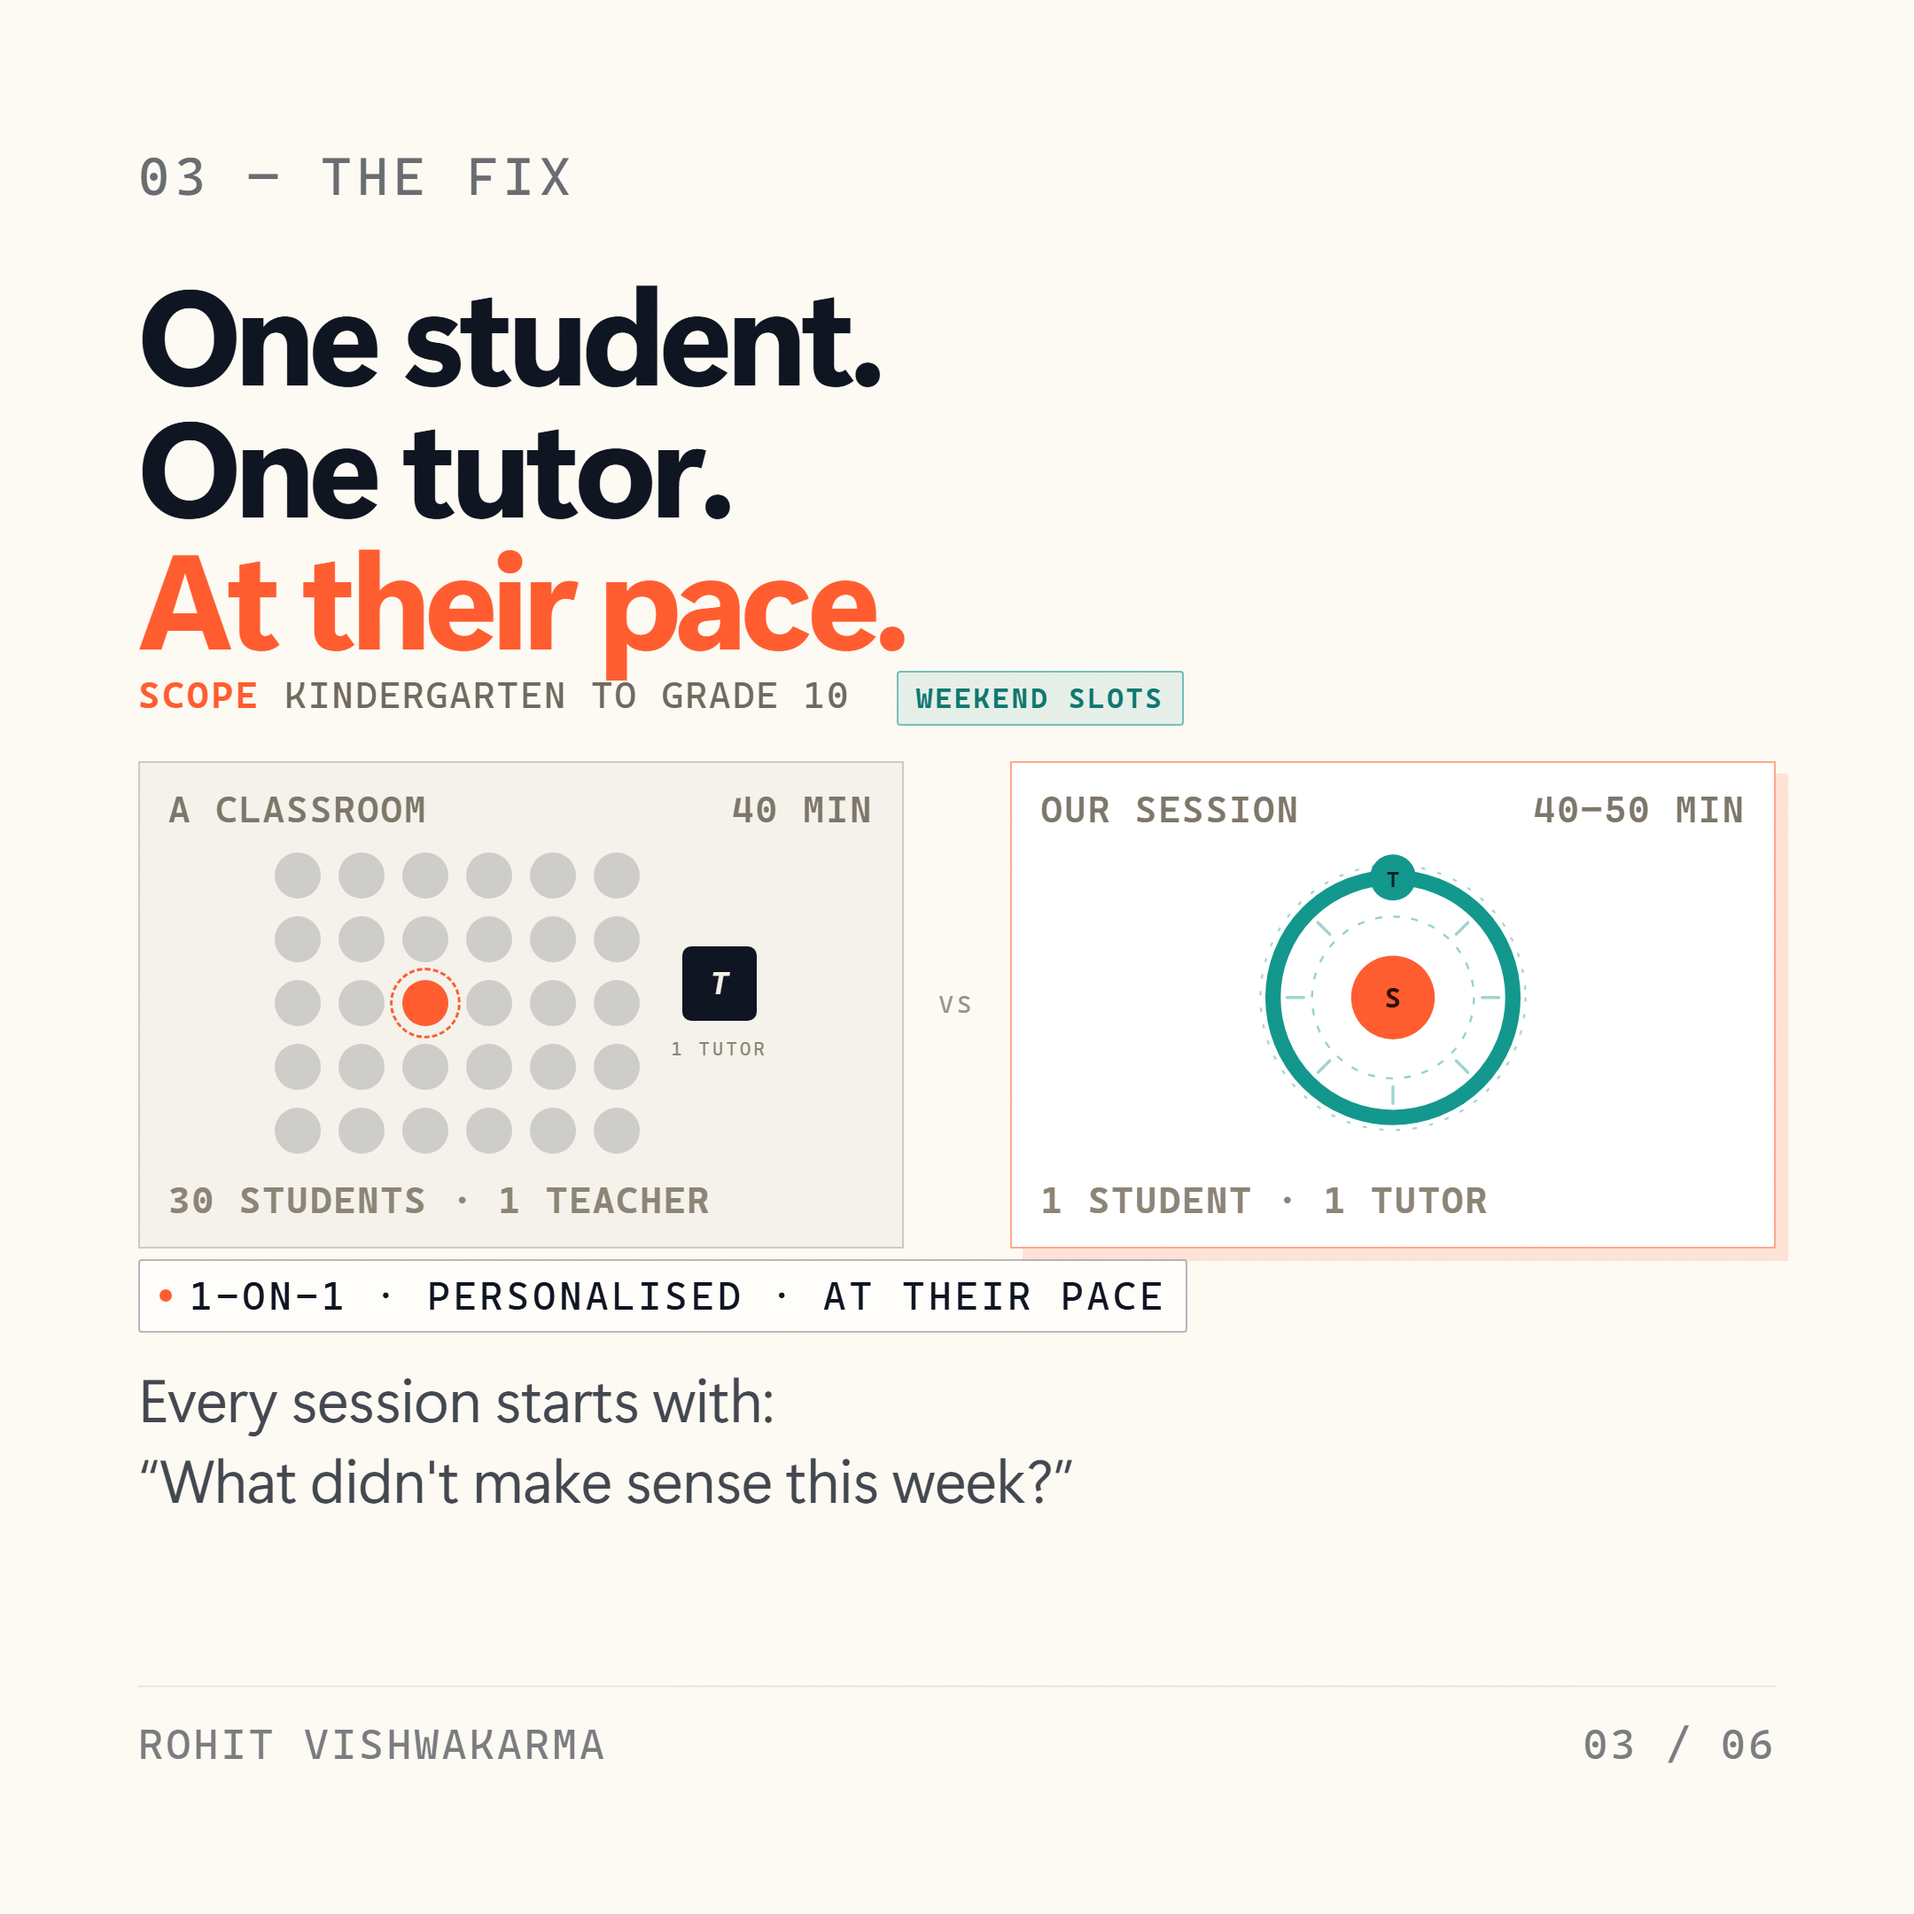
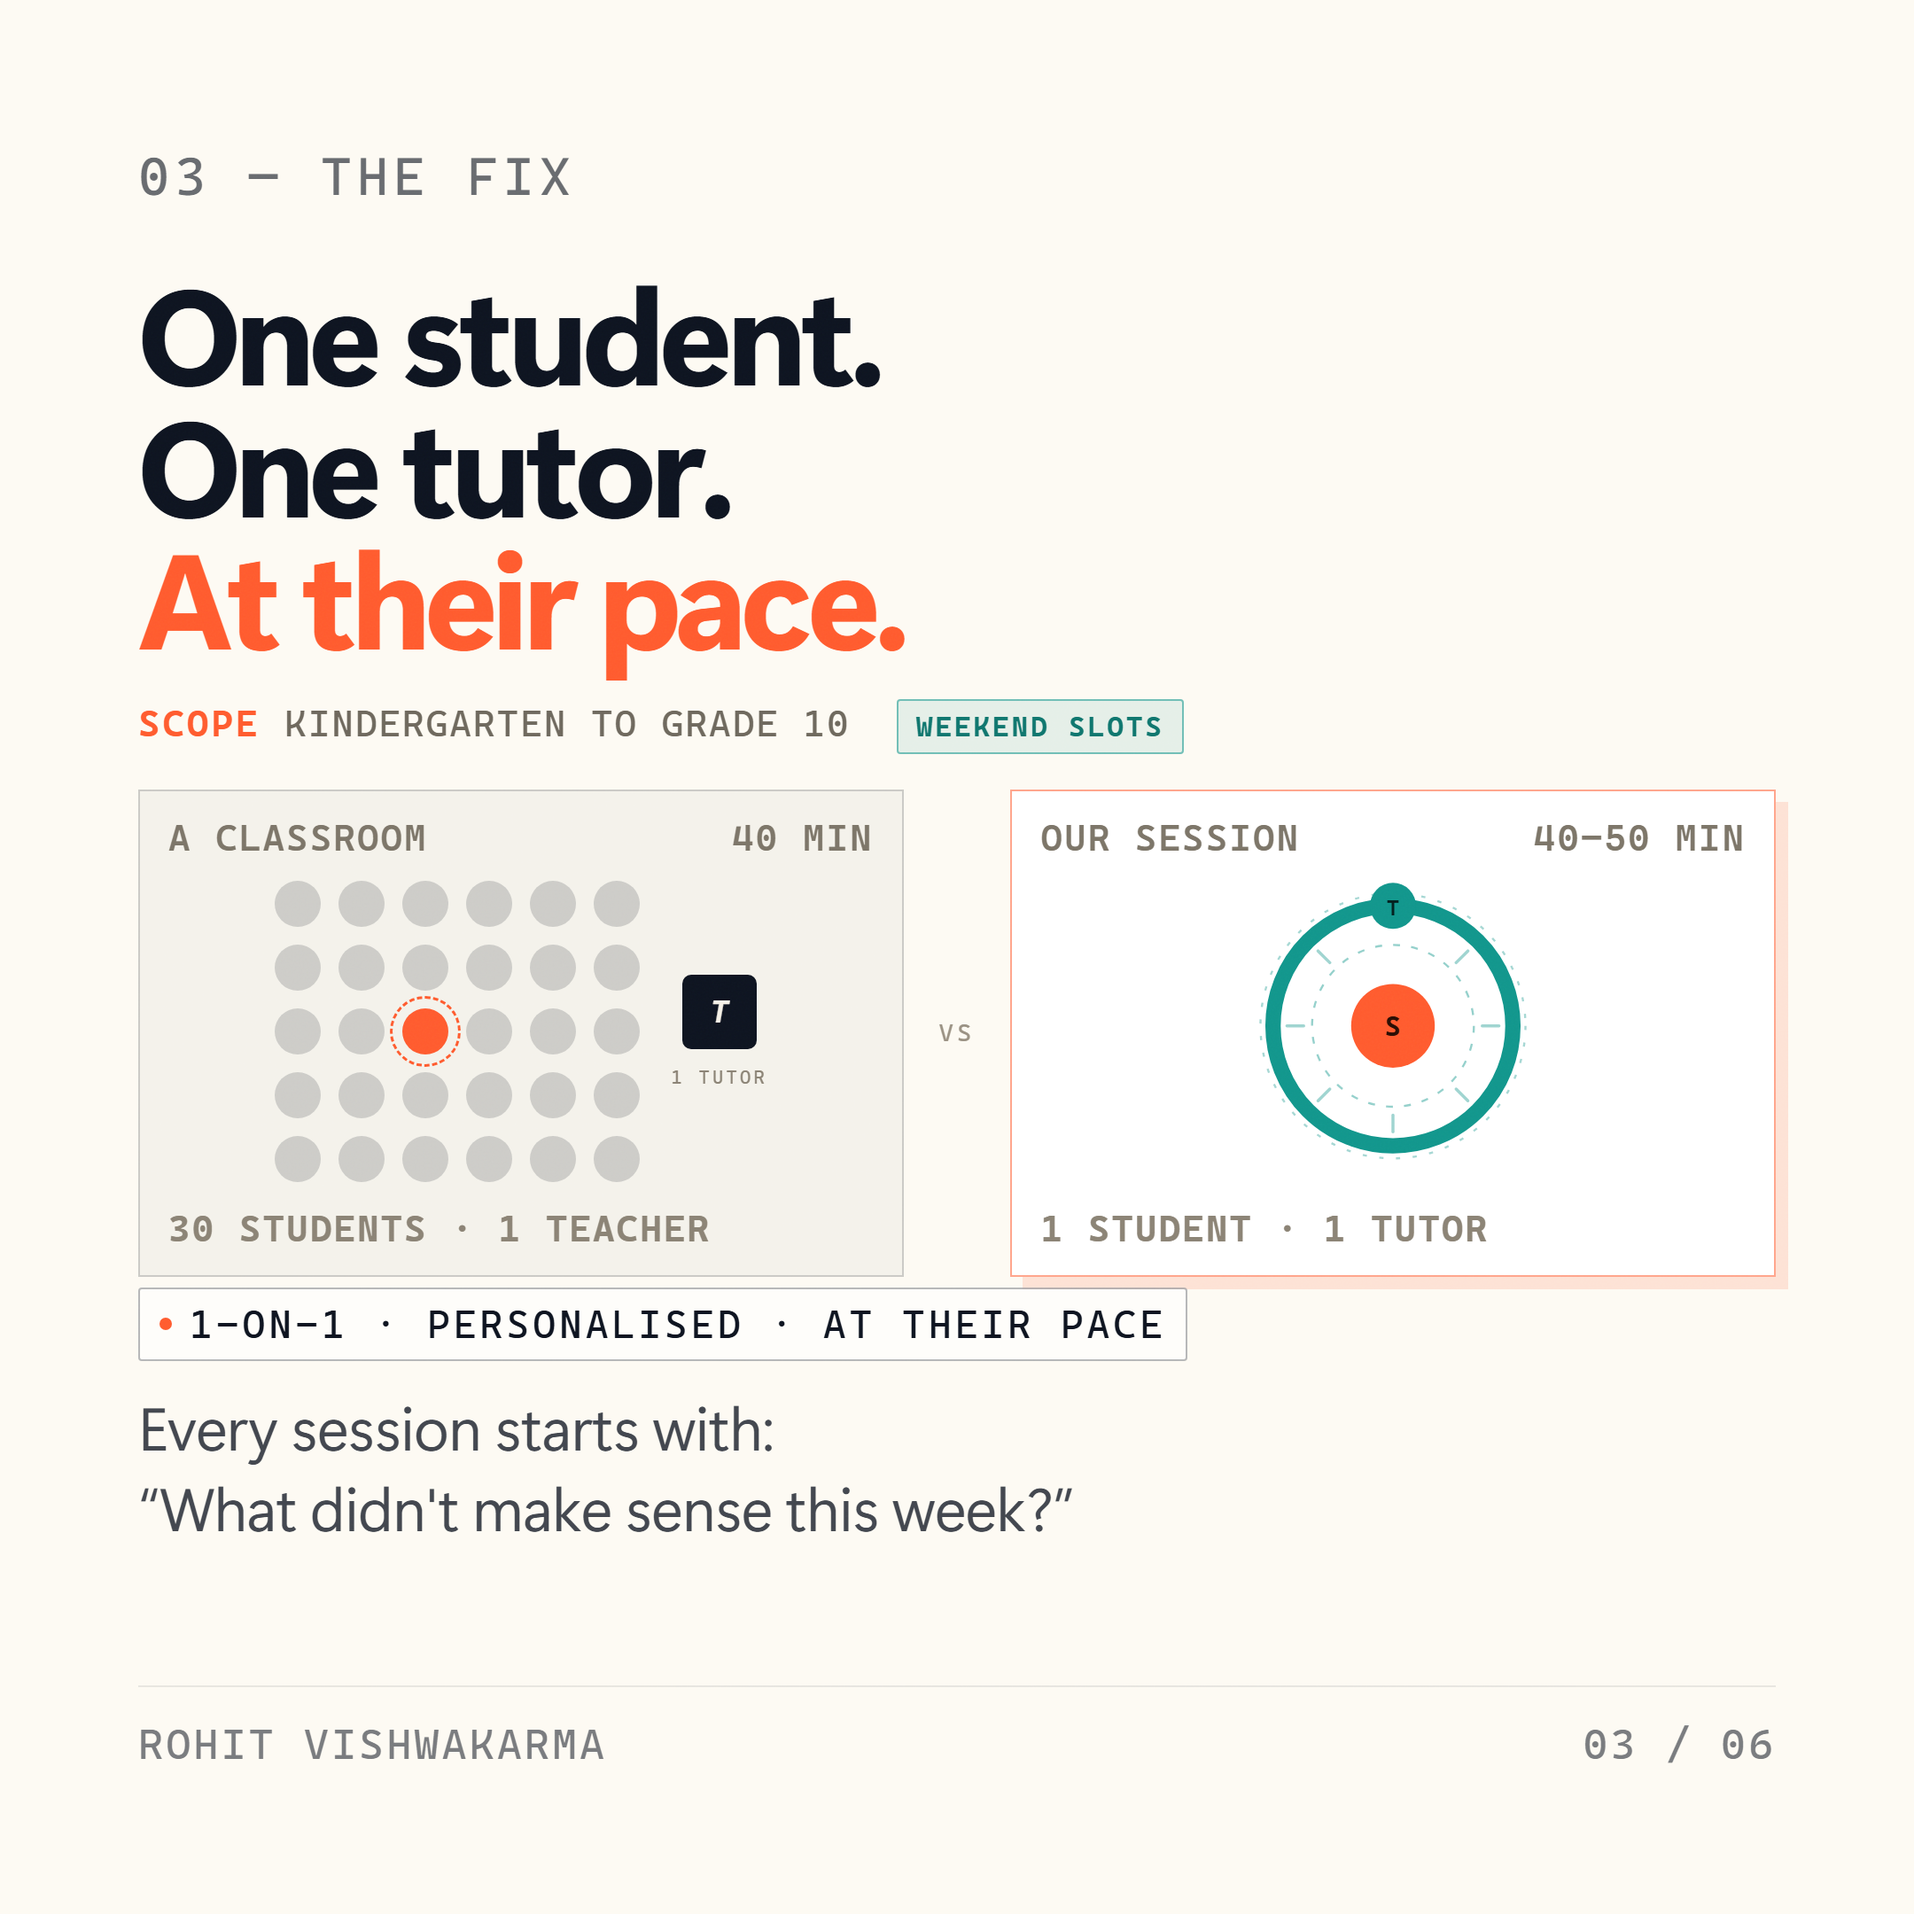
Add breathing room between S3 headline and scope line

Changed region(s): [[0.062, 0.3412, 0.9306, 0.8065], [0.8065, 0.4032, 0.9306, 0.4653]]

diff --git a/nextgen-creative-kit-45.html b/nextgen-creative-kit-45.html
@@ -1443,7 +1443,7 @@
   .chip{font-size:22px;padding:7px 11px}
   .s3-h{font-size:21px;letter-spacing:1px;font-weight:600}
   .s3-f{font-size:21px;letter-spacing:1px;font-weight:700}
-  .s3-scope{font-size:21px;letter-spacing:1px;margin-top:6px}
+  .s3-scope{font-size:21px;letter-spacing:1px;margin-top:22px}
   .s3-scope > span:first-child{font-size:21px;letter-spacing:1.4px}
   .s3-weekend{font-size:16px;letter-spacing:1.4px;padding:5px 10px}
   .riyadh-tag{font-size:21px;letter-spacing:.8px;padding:5px 11px}
@@ -1553,7 +1553,7 @@
   .s3 .body{font-size:46px}
   .s3-h{font-size:26px;letter-spacing:1px;font-weight:600}
   .s3-f{font-size:26px;letter-spacing:1px;font-weight:700}
-  .s3-scope{font-size:26px;letter-spacing:1px}
+  .s3-scope{font-size:26px;letter-spacing:1px;margin-top:26px}
   .s3-scope > span:first-child{font-size:26px;letter-spacing:1.4px}
   .s3-weekend{font-size:18px;letter-spacing:1.4px;padding:6px 11px}
   .chip{font-size:24px;padding:7px 12px}

diff --git a/nextgen-creative-kit-riyadh-45.html b/nextgen-creative-kit-riyadh-45.html
@@ -1467,7 +1467,7 @@
   .chip{font-size:22px;padding:7px 11px}
   .s3-h{font-size:21px;letter-spacing:1px;font-weight:600}
   .s3-f{font-size:21px;letter-spacing:1px;font-weight:700}
-  .s3-scope{font-size:21px;letter-spacing:1px;margin-top:6px}
+  .s3-scope{font-size:21px;letter-spacing:1px;margin-top:22px}
   .s3-scope > span:first-child{font-size:21px;letter-spacing:1.4px}
   .s3-weekend{font-size:16px;letter-spacing:1.4px;padding:5px 10px}
   .riyadh-tag{font-size:21px;letter-spacing:.8px;padding:5px 11px}
@@ -1577,7 +1577,7 @@
   .s3 .body{font-size:46px}
   .s3-h{font-size:26px;letter-spacing:1px;font-weight:600}
   .s3-f{font-size:26px;letter-spacing:1px;font-weight:700}
-  .s3-scope{font-size:26px;letter-spacing:1px}
+  .s3-scope{font-size:26px;letter-spacing:1px;margin-top:26px}
   .s3-scope > span:first-child{font-size:26px;letter-spacing:1.4px}
   .s3-weekend{font-size:18px;letter-spacing:1.4px;padding:6px 11px}
   .chip{font-size:24px;padding:7px 12px}

diff --git a/nextgen-creative-kit-riyadh.html b/nextgen-creative-kit-riyadh.html
@@ -1467,7 +1467,7 @@
   .chip{font-size:22px;padding:7px 11px}
   .s3-h{font-size:21px;letter-spacing:1px;font-weight:600}
   .s3-f{font-size:21px;letter-spacing:1px;font-weight:700}
-  .s3-scope{font-size:21px;letter-spacing:1px;margin-top:6px}
+  .s3-scope{font-size:21px;letter-spacing:1px;margin-top:22px}
   .s3-scope > span:first-child{font-size:21px;letter-spacing:1.4px}
   .s3-weekend{font-size:16px;letter-spacing:1.4px;padding:5px 10px}
   .riyadh-tag{font-size:21px;letter-spacing:.8px;padding:5px 11px}

diff --git a/nextgen-creative-kit.html b/nextgen-creative-kit.html
@@ -1443,7 +1443,7 @@
   .chip{font-size:22px;padding:7px 11px}
   .s3-h{font-size:21px;letter-spacing:1px;font-weight:600}
   .s3-f{font-size:21px;letter-spacing:1px;font-weight:700}
-  .s3-scope{font-size:21px;letter-spacing:1px;margin-top:6px}
+  .s3-scope{font-size:21px;letter-spacing:1px;margin-top:22px}
   .s3-scope > span:first-child{font-size:21px;letter-spacing:1.4px}
   .s3-weekend{font-size:16px;letter-spacing:1.4px;padding:5px 10px}
   .riyadh-tag{font-size:21px;letter-spacing:.8px;padding:5px 11px}

diff --git a/exports/make-carousel-45.py b/exports/make-carousel-45.py
@@ -79,7 +79,7 @@ TEXT_45 = """
   .s3 .body{font-size:46px}
   .s3-h{font-size:26px;letter-spacing:1px;font-weight:600}
   .s3-f{font-size:26px;letter-spacing:1px;font-weight:700}
-  .s3-scope{font-size:26px;letter-spacing:1px}
+  .s3-scope{font-size:26px;letter-spacing:1px;margin-top:26px}
   .s3-scope > span:first-child{font-size:26px;letter-spacing:1.4px}
   .s3-weekend{font-size:18px;letter-spacing:1.4px;padding:6px 11px}
   .chip{font-size:24px;padding:7px 12px}
